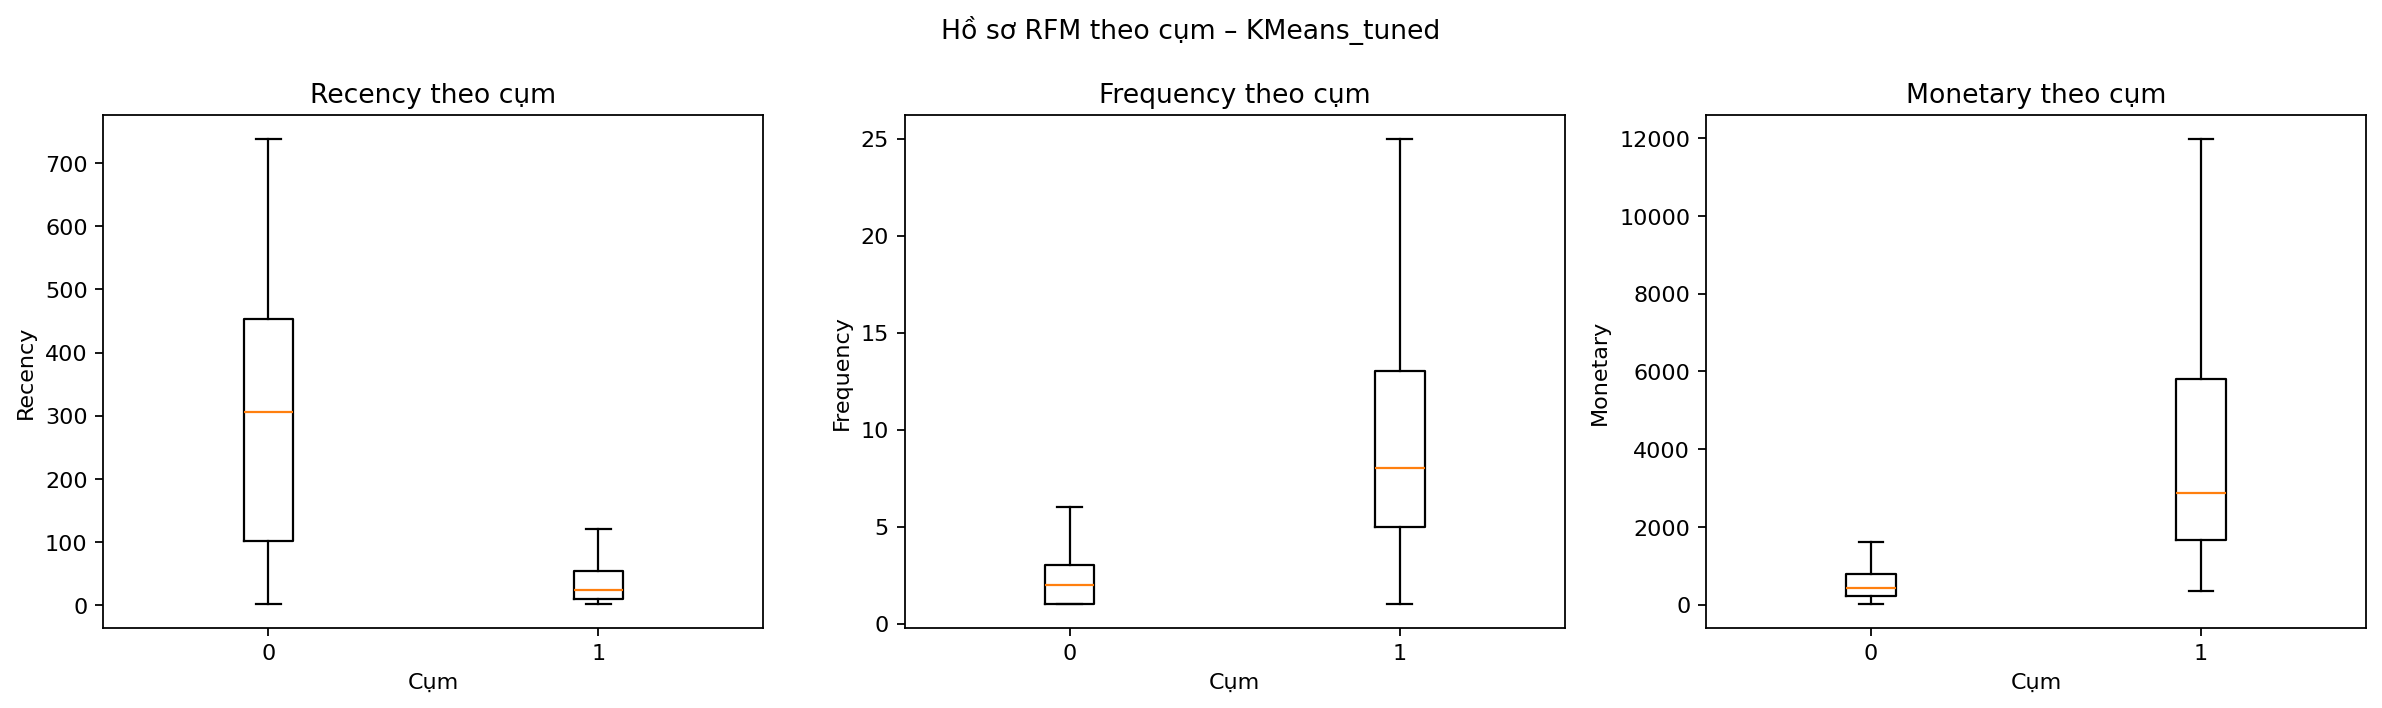
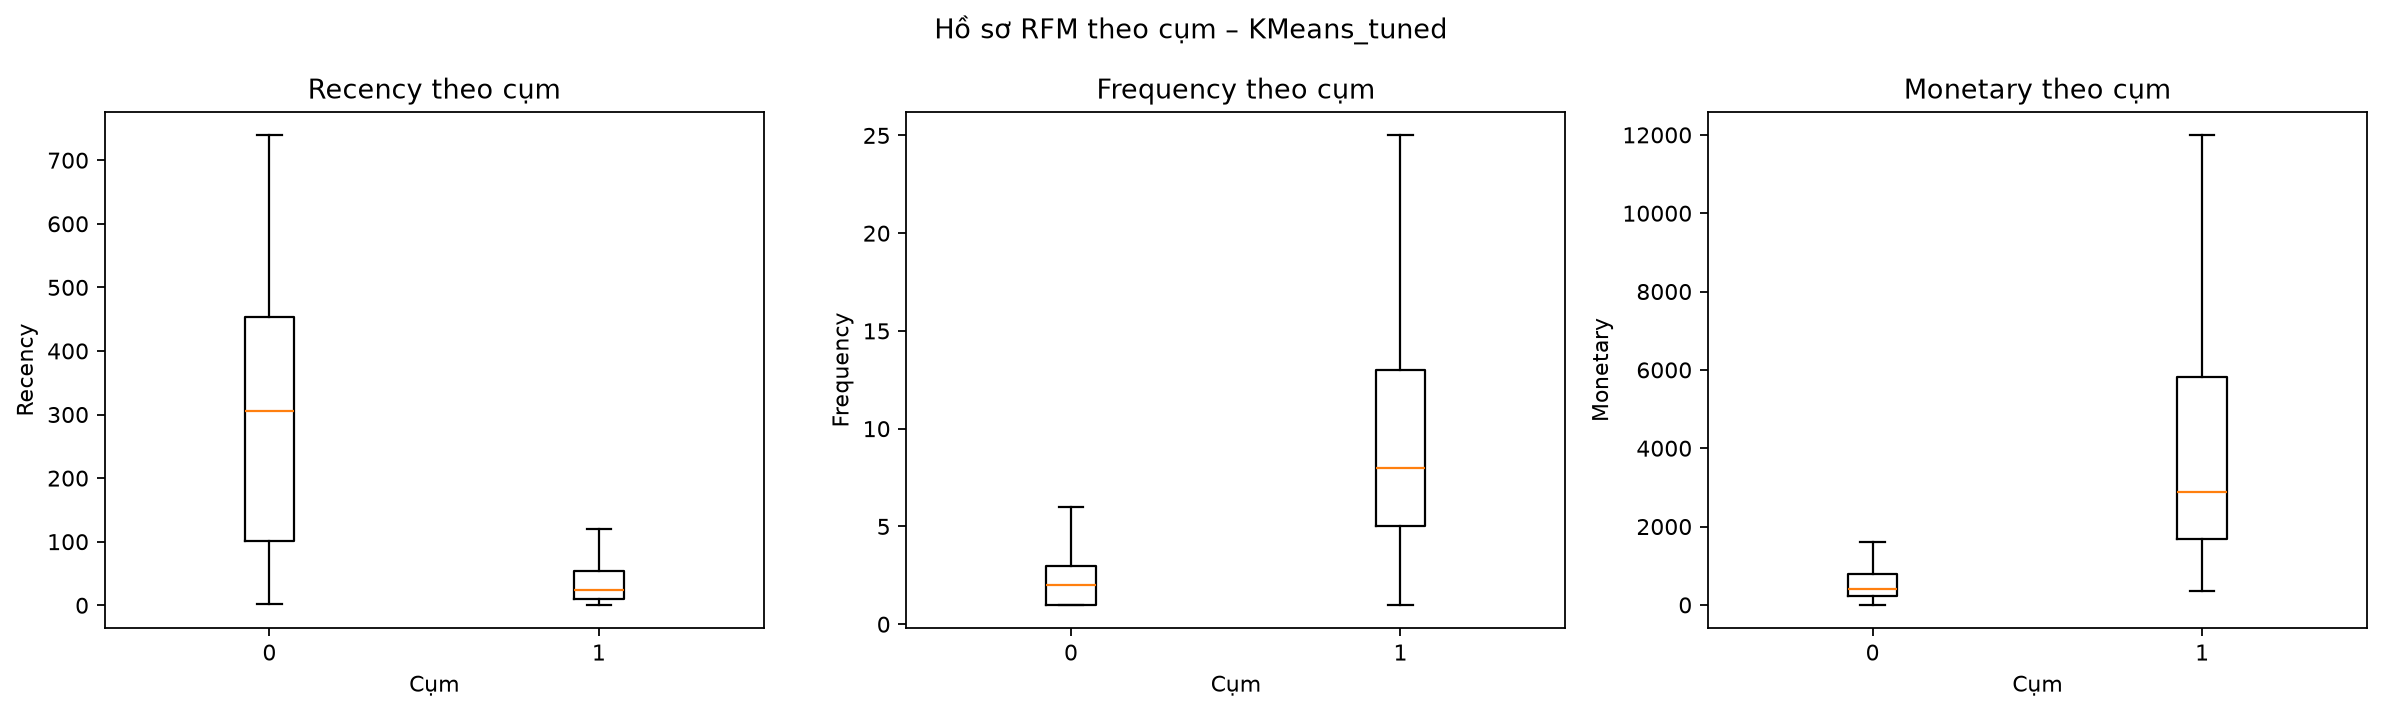
Bổ sung thực nghiệm phân cụm RFM

diff --git a/Online_Retail_II_GiaiDoan1/src/run_clustering_experiments.py b/Online_Retail_II_GiaiDoan1/src/run_clustering_experiments.py
@@ -2,6 +2,7 @@
 from __future__ import annotations
 
 import json
+import sys
 from datetime import date
 from pathlib import Path
 
@@ -24,6 +25,8 @@ SILHOUETTE_SAMPLE_SIZE = 1000
 
 
 def main() -> None:
+    if hasattr(sys.stdout, "reconfigure"):
+        sys.stdout.reconfigure(encoding="utf-8")
     TABLES.mkdir(parents=True, exist_ok=True)
     FIGURES.mkdir(parents=True, exist_ok=True)
     if not RFM_FILE.exists():
@@ -196,7 +199,7 @@ def main() -> None:
                 for c in sorted(valid_customer.cluster.unique())]
         labels_order = [str(c) for c in sorted(valid_customer.cluster.unique())]
         if data:
-            ax.boxplot(data, labels=labels_order, showfliers=False)
+            ax.boxplot(data, tick_labels=labels_order, showfliers=False)
         ax.set_title(f"{feature} theo cụm")
         ax.set_xlabel("Cụm")
         ax.set_ylabel(feature)

diff --git a/Online_Retail_II_GiaiDoan1/outputs/tables/cluster_interpretation.md b/Online_Retail_II_GiaiDoan1/outputs/tables/cluster_interpretation.md
@@ -6,7 +6,7 @@ Trung vị toàn mẫu: Recency=92.00 ngày, Frequency=3.00 hóa đơn, Monetary
 
 Các mô tả dưới đây so sánh trung vị của từng cụm với trung vị mẫu chung; đây là diễn giải mô tả, không phải nhãn chân lý hay bằng chứng nhân quả.
 
-- **Cụm 0** (1,162 khách hàng trong mẫu): Recency 306.00 ngày (cao hơn trung vị mẫu), Frequency 2.00 hóa đơn (thấp hơn trung vị mẫu), Monetary 412.66 GBP (thấp hơn trung vị mẫu); doanh thu gộp trong cụm 716635.46 GBP.
+- **Cụm 0** (1,162 khách hàng trong mẫu): Recency 306.00 ngày (cao hơn trung vị mẫu), Frequency 2.00 hóa đơn (thấp hơn trung vị mẫu), Monetary 412.67 GBP (thấp hơn trung vị mẫu); doanh thu gộp trong cụm 716635.46 GBP.
 - **Cụm 1** (838 khách hàng trong mẫu): Recency 24.00 ngày (thấp hơn trung vị mẫu), Frequency 8.00 hóa đơn (cao hơn trung vị mẫu), Monetary 2880.55 GBP (cao hơn trung vị mẫu); doanh thu gộp trong cụm 4908320.61 GBP.
 
 ## Giới hạn
